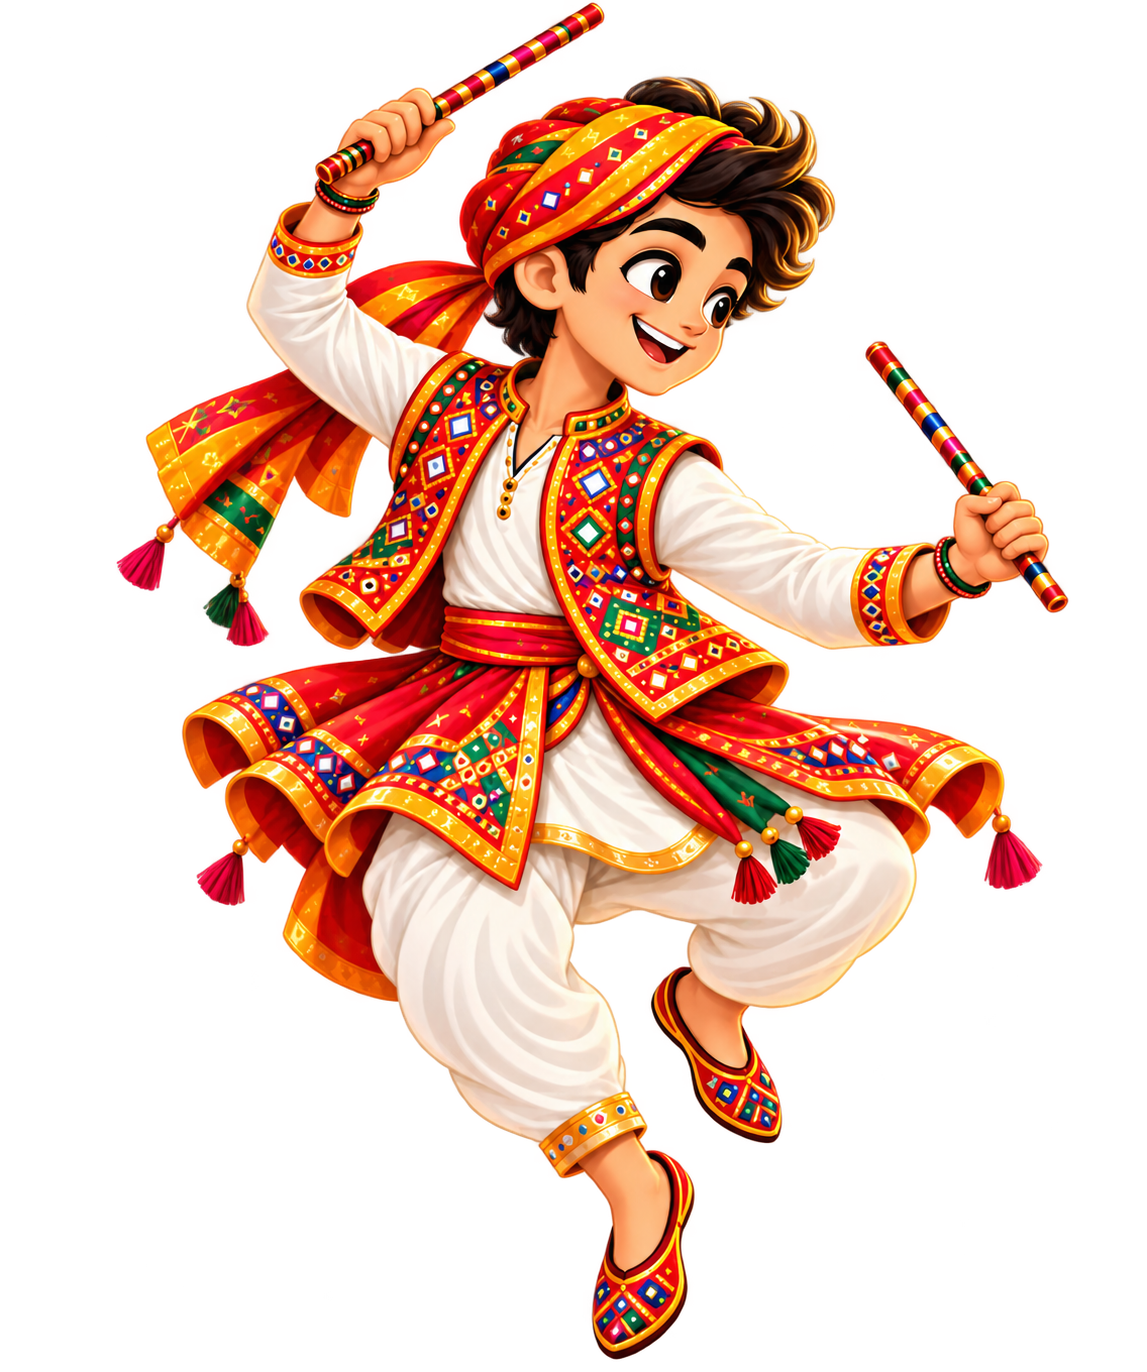
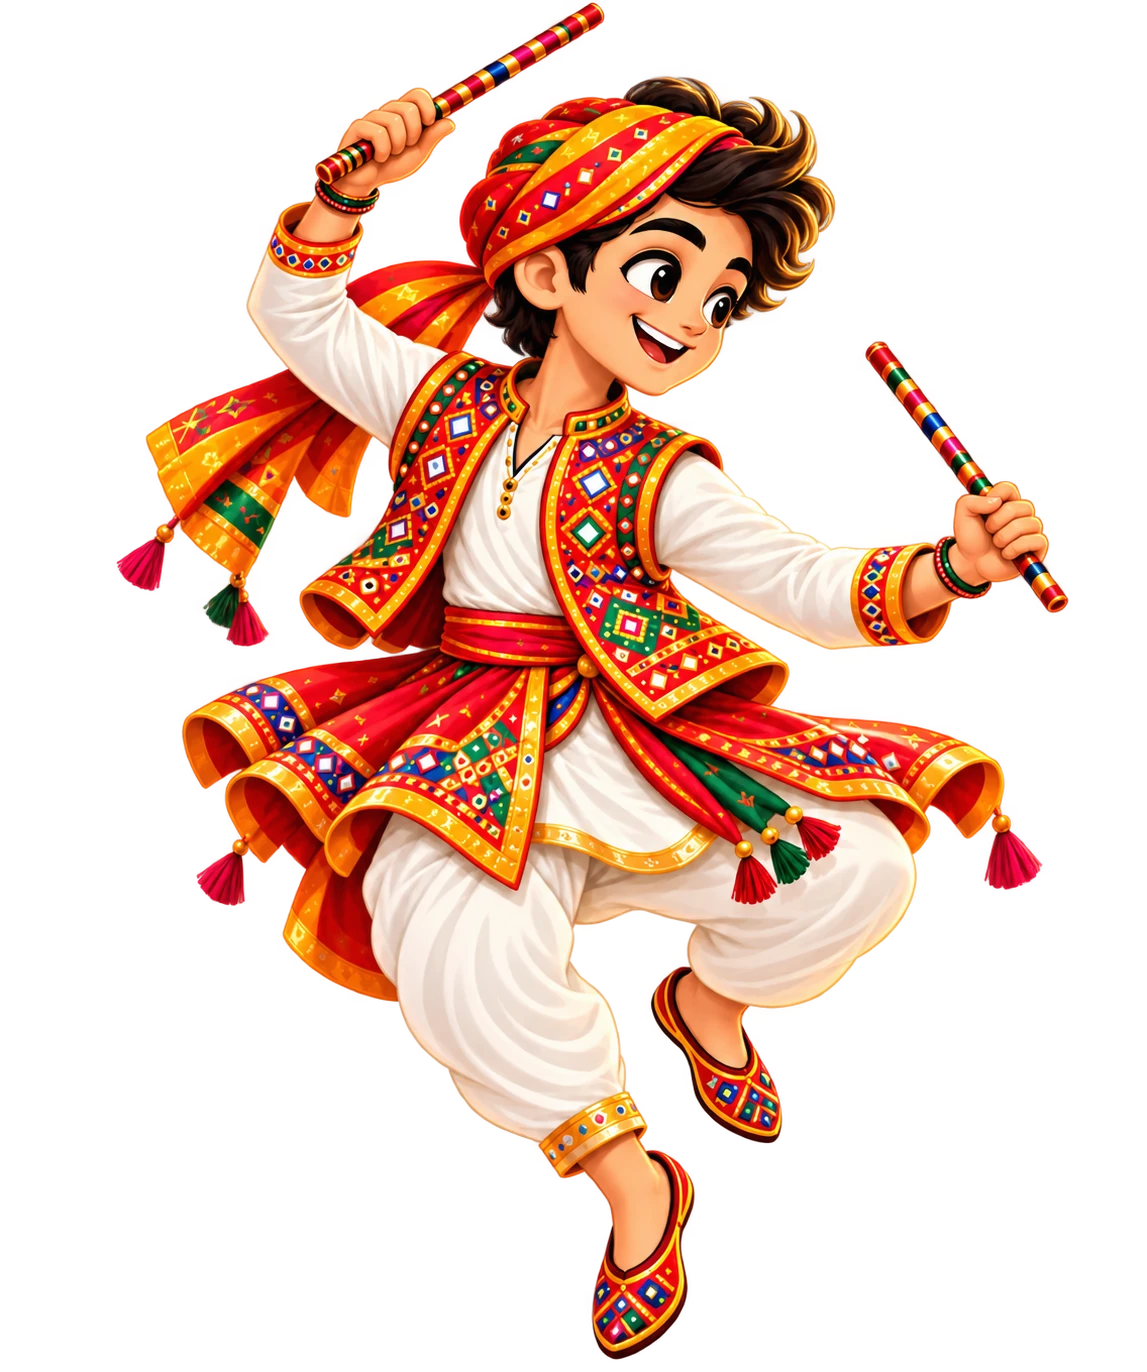
v1.1

diff --git a/app/globals.css b/app/globals.css
@@ -277,34 +277,38 @@ th {
   font-weight: 500;
 }
 
-/* --- Hero: dancer figures flanking the text, semi-transparent and gently swaying --- */
+/* --- Hero: dancer figures woven into the background — large, faded at the
+   edges so they melt into the dark gradient instead of reading as pasted-on
+   corner icons --- */
 .hero-dancer {
   position: absolute;
-  bottom: 0;
-  width: 150px;
-  opacity: 0.55;
+  bottom: -4%;
+  width: 220px;
+  opacity: 0.28;
   pointer-events: none;
-  display: none;
   z-index: 0;
+  filter: saturate(0.85);
+  -webkit-mask-image: radial-gradient(ellipse 75% 85% at 50% 100%, black 35%, transparent 92%);
+  mask-image: radial-gradient(ellipse 75% 85% at 50% 100%, black 35%, transparent 92%);
 }
 .hero-dancer-left {
-  left: -10px;
+  left: -6%;
   transform-origin: bottom center;
 }
 .hero-dancer-right {
-  right: -10px;
+  right: -6%;
   transform-origin: bottom center;
 }
 @media (min-width: 700px) {
   .hero-dancer {
-    display: block;
-    width: 190px;
-    opacity: 0.7;
+    width: 340px;
+    opacity: 0.4;
   }
 }
 @media (min-width: 1100px) {
   .hero-dancer {
-    width: 230px;
+    width: 440px;
+    opacity: 0.45;
   }
 }
 .hero-dancer-sway {
@@ -324,4 +328,42 @@ th {
 }
 @media (prefers-reduced-motion: reduce) {
   .hero-dancer-sway { animation: none; }
+}
+
+/* --- Hero centerpiece: the deity image, front and center above the title --- */
+.deity-frame {
+  position: relative;
+  width: 168px;
+  height: 168px;
+  margin: 0 auto 22px;
+  border-radius: 50%;
+  z-index: 1;
+}
+.deity-frame::before {
+  content: "";
+  position: absolute;
+  inset: -22px;
+  background: radial-gradient(circle, rgba(240, 178, 60, 0.45), rgba(224, 52, 138, 0.18) 55%, transparent 75%);
+  filter: blur(6px);
+  z-index: 0;
+}
+.deity-image {
+  position: relative;
+  z-index: 1;
+  width: 100%;
+  height: 100%;
+  object-fit: cover;
+  object-position: top center;
+  border-radius: 50%;
+  border: 3px solid var(--gold);
+  box-shadow:
+    0 0 0 6px rgba(240, 178, 60, 0.14),
+    0 8px 32px rgba(0, 0, 0, 0.55);
+}
+@media (min-width: 700px) {
+  .deity-frame { width: 220px; height: 220px; margin-bottom: 26px; }
+  .deity-frame::before { inset: -30px; }
+}
+@media (min-width: 1100px) {
+  .deity-frame { width: 260px; height: 260px; }
 }

diff --git a/app/page.js b/app/page.js
@@ -87,6 +87,9 @@ function HomeContent() {
         />
 
         <div className="container" style={{ position: "relative", zIndex: 1 }}>
+          <div className="hero-rise hero-rise-1 deity-frame">
+            <img src="/deity.webp" alt="Deity blessing the festival" className="deity-image" />
+          </div>
           {refCode && (
             <p className="hero-rise hero-rise-1" style={{ fontSize: 13, color: "var(--gold)", marginBottom: 8 }}>
               Referred by code {refCode.toUpperCase()} — it'll be applied at checkout.
